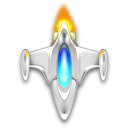
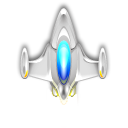
Implement bullet lifetime; implement ship thrust animation;

Changed region(s): [[0.1562, 0.0312, 0.8438, 0.9688]]

diff --git a/lib/ship.js b/lib/ship.js
@@ -13,10 +13,14 @@
     this.radius = object.radius || Ship.RADIUS;
     this.color = object.color || Ship.COLOR;
     this.livesCount = object.livesCount || Ship.LIVES_COUNT;
+    this.firingRate = object.firingRate || Ship.FIRING_RATE;
+    this.lastFire = 0;
     this.vel = object.vel || new Vector({x: 0, y: 0});
-    this.angle = object.angle || Math.PI;
-    this.image = new Image();
+    this.angle = object.angle || 0;
+    this.image= new Image();
     this.image.src = "./assets/ship.png";
+    this.thrustImage = new Image();
+    this.thrustImage.src = "./assets/ship-thrust.png";
   };
 
   Ship.inherits(MovingObject);
@@ -24,6 +28,7 @@
   Ship.RADIUS = 20;
   Ship.COLOR = "#0000ff";
   Ship.LIVES_COUNT = 3;
+  Ship.FIRING_RATE = 10;  // bullets per second
 
   Ship.prototype.collideWith = function (otherObject) {
     console.log("colliding with ship")
@@ -44,7 +49,7 @@
     this.vel = new Vector({ x: 0, y: 0});
   };
 
-  Ship.prototype.step = function (delta) {
+  Ship.prototype.step = function (currentStep, delta) {
     if (this.isRotatingLeft) {
       this.rotate(-5 * delta);
     }
@@ -57,12 +62,16 @@
     if (this.isReverseThrustOn) {
       this.thrust(-500 * delta);
     }
+    if (this.isFiring && 1000 / this.firingRate < currentStep - this.lastFire) {
+      this.fireBullet();
+      this.lastFire = currentStep;
+    }
   };
 
   Ship.prototype.thrust = function (magnitude) {
     var impulse = new Vector({
       magnitude: magnitude,
-      angle: this.angle + Math.PI / 2
+      angle: this.angle - Math.PI / 2
     });
     this.vel.addTo(impulse);
   };
@@ -101,20 +110,29 @@
         context.translate(pos.x, pos.y);
         context.rotate(this.angle);
         context.fillStyle = this.color;
-        context.drawImage(this.image, -64, -64);
+        if (this.isThrustOn) {
+          context.drawImage(this.thrustImage, -64, -64);
+        } else {
+          context.drawImage(this.image, -64, -64);
+        }
         // Util.drawTriangle(context);
         context.restore();
       };
     };
   };
 
+  Ship.prototype.firing = function (isFiring) {
+    this.isFiring = isFiring;
+  };
+
   Ship.prototype.fireBullet = function () {
     var bullet = new Bullet({
-      pos: new Vector({x: this.pos.x, y: this.pos.y}),
+      pos: this.pos.clone(),
       vel: this.vel.add(new Vector({
         magnitude: 500,
-        angle: this.angle + Math.PI / 2
-      }))
+        angle: this.angle - Math.PI / 2
+      })),
+      lifetime: 1
     });
     this.game.addBullet(bullet);
   };

diff --git a/lib/game.js b/lib/game.js
@@ -77,9 +77,20 @@
   Game.prototype.step = function () {
     this.currentStep = Date.now();
     var delta = (this.currentStep - this.lastStep) / 1000;
-    this.ship.step(delta);
+    this.ship.step(this.currentStep, delta);
     this.moveObjects(delta);
     this.checkCollisions();
+    // TODO: reimplement this
+    var deadBullets = [];
+    this.bullets.forEach((function (bullet) {
+      var age = (this.currentStep - bullet.birthTime) / 1000;
+      if (age > bullet.lifetime) {
+        deadBullets.push(bullet);
+      }
+    }).bind(this));
+    deadBullets.forEach((function (deadBullet) {
+      this.removeBullet(deadBullet);
+    }).bind(this));
     this.lastStep = this.currentStep;
   };
 
@@ -93,7 +104,7 @@
   };
 
   Game.prototype.removeBullet = function (bullet) {
-    var index = this.asteroids.indexOf(bullet);
+    var index = this.bullets.indexOf(bullet);
     this.bullets.splice(index, 1);
   };
 

diff --git a/lib/gameView.js b/lib/gameView.js
@@ -40,7 +40,7 @@
           event.preventDefault();
           break;
         case 32:  // space
-          ship.fireBullet();
+          ship.firing(true);
           event.preventDefault();
           break;
         default:
@@ -65,12 +65,10 @@
           ship.rotateRight(false);
           event.preventDefault();
           break;
-          /*
         case 32:  // space
-          ship.fireBullet();
+          ship.firing(false);
           event.preventDefault();
           break;
-          */
         default:
       }
     };

diff --git a/lib/bullet.js b/lib/bullet.js
@@ -8,6 +8,8 @@
   var Asteroid = Asteroids.Asteroid;
 
   var Bullet = Asteroids.Bullet = function (object) {
+    this.birthTime = Date.now();
+    this.lifetime = object.lifetime || 0.5;
     object.color = object.color || Bullet.COLOR;
     object.radius = object.radius || Bullet.RADIUS;
     MovingObject.call(this, object);

diff --git a/lib/utils.js b/lib/utils.js
@@ -14,6 +14,13 @@
     }
   };
 
+  Vector.prototype.clone = function () {
+    return new Vector({
+      x: this.x,
+      y: this.y
+    });
+  };
+
   Vector.prototype.add = function (vector) {
     return new Vector({
       x: this.x + vector.x,
